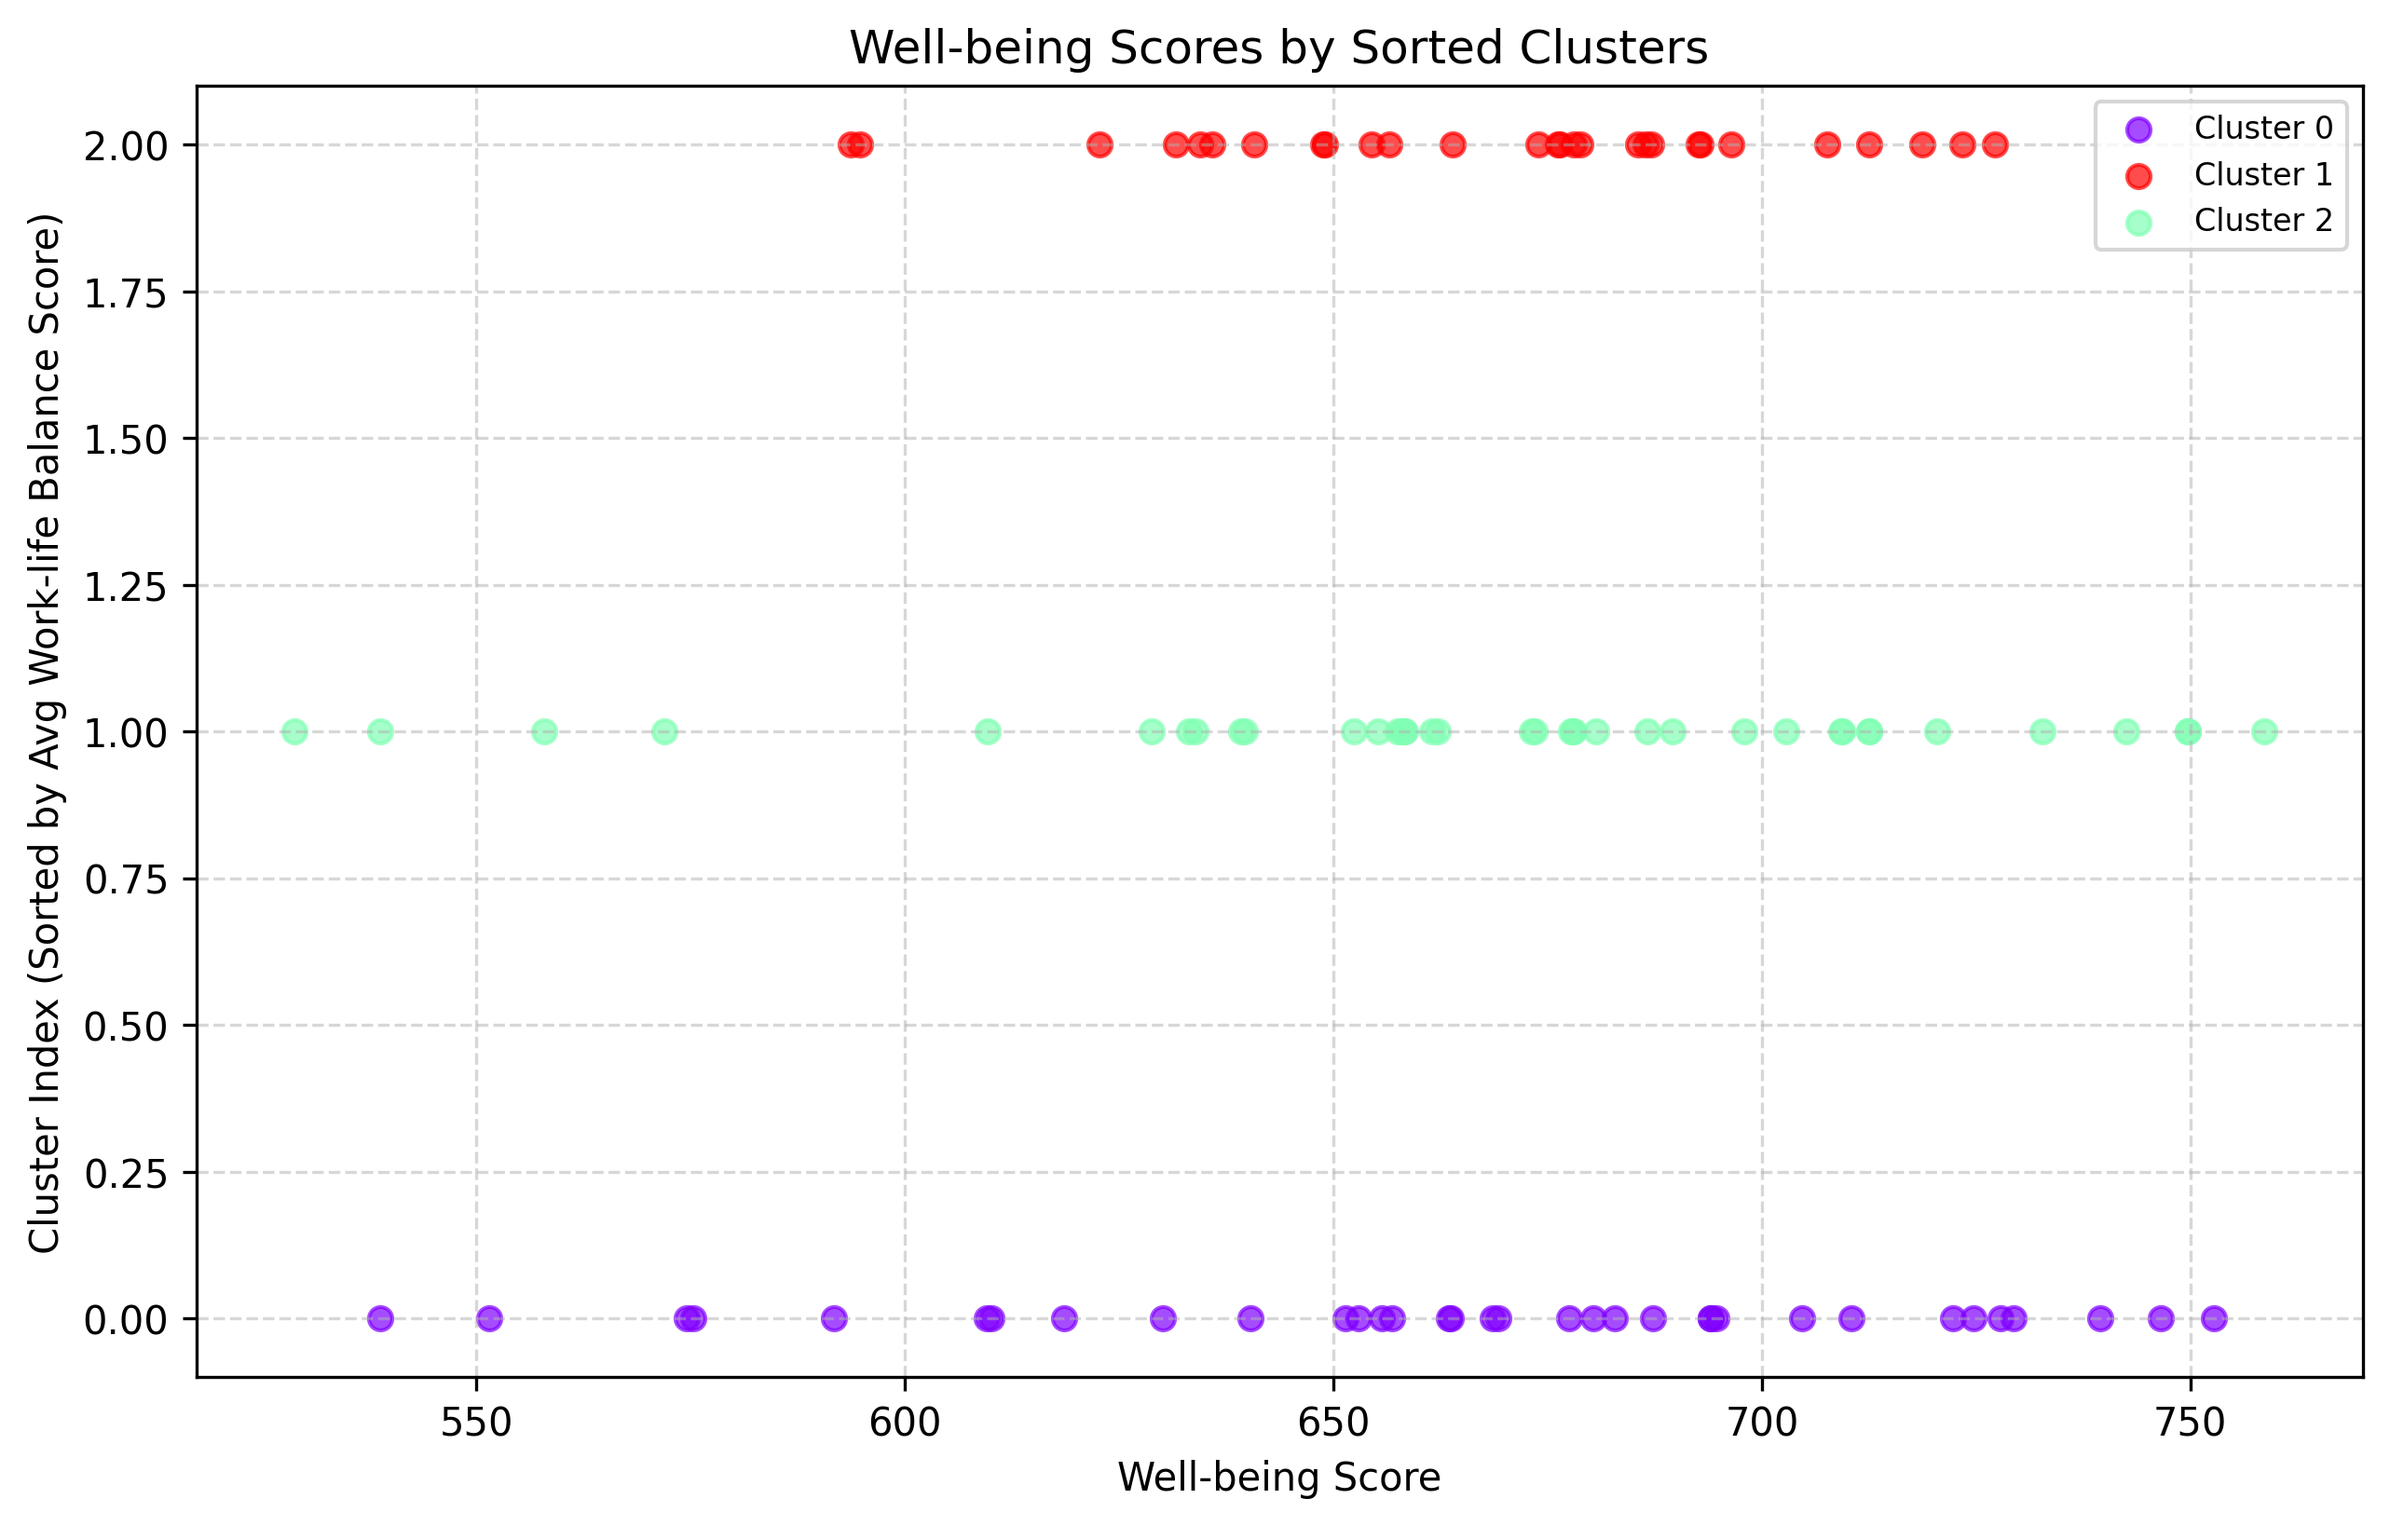
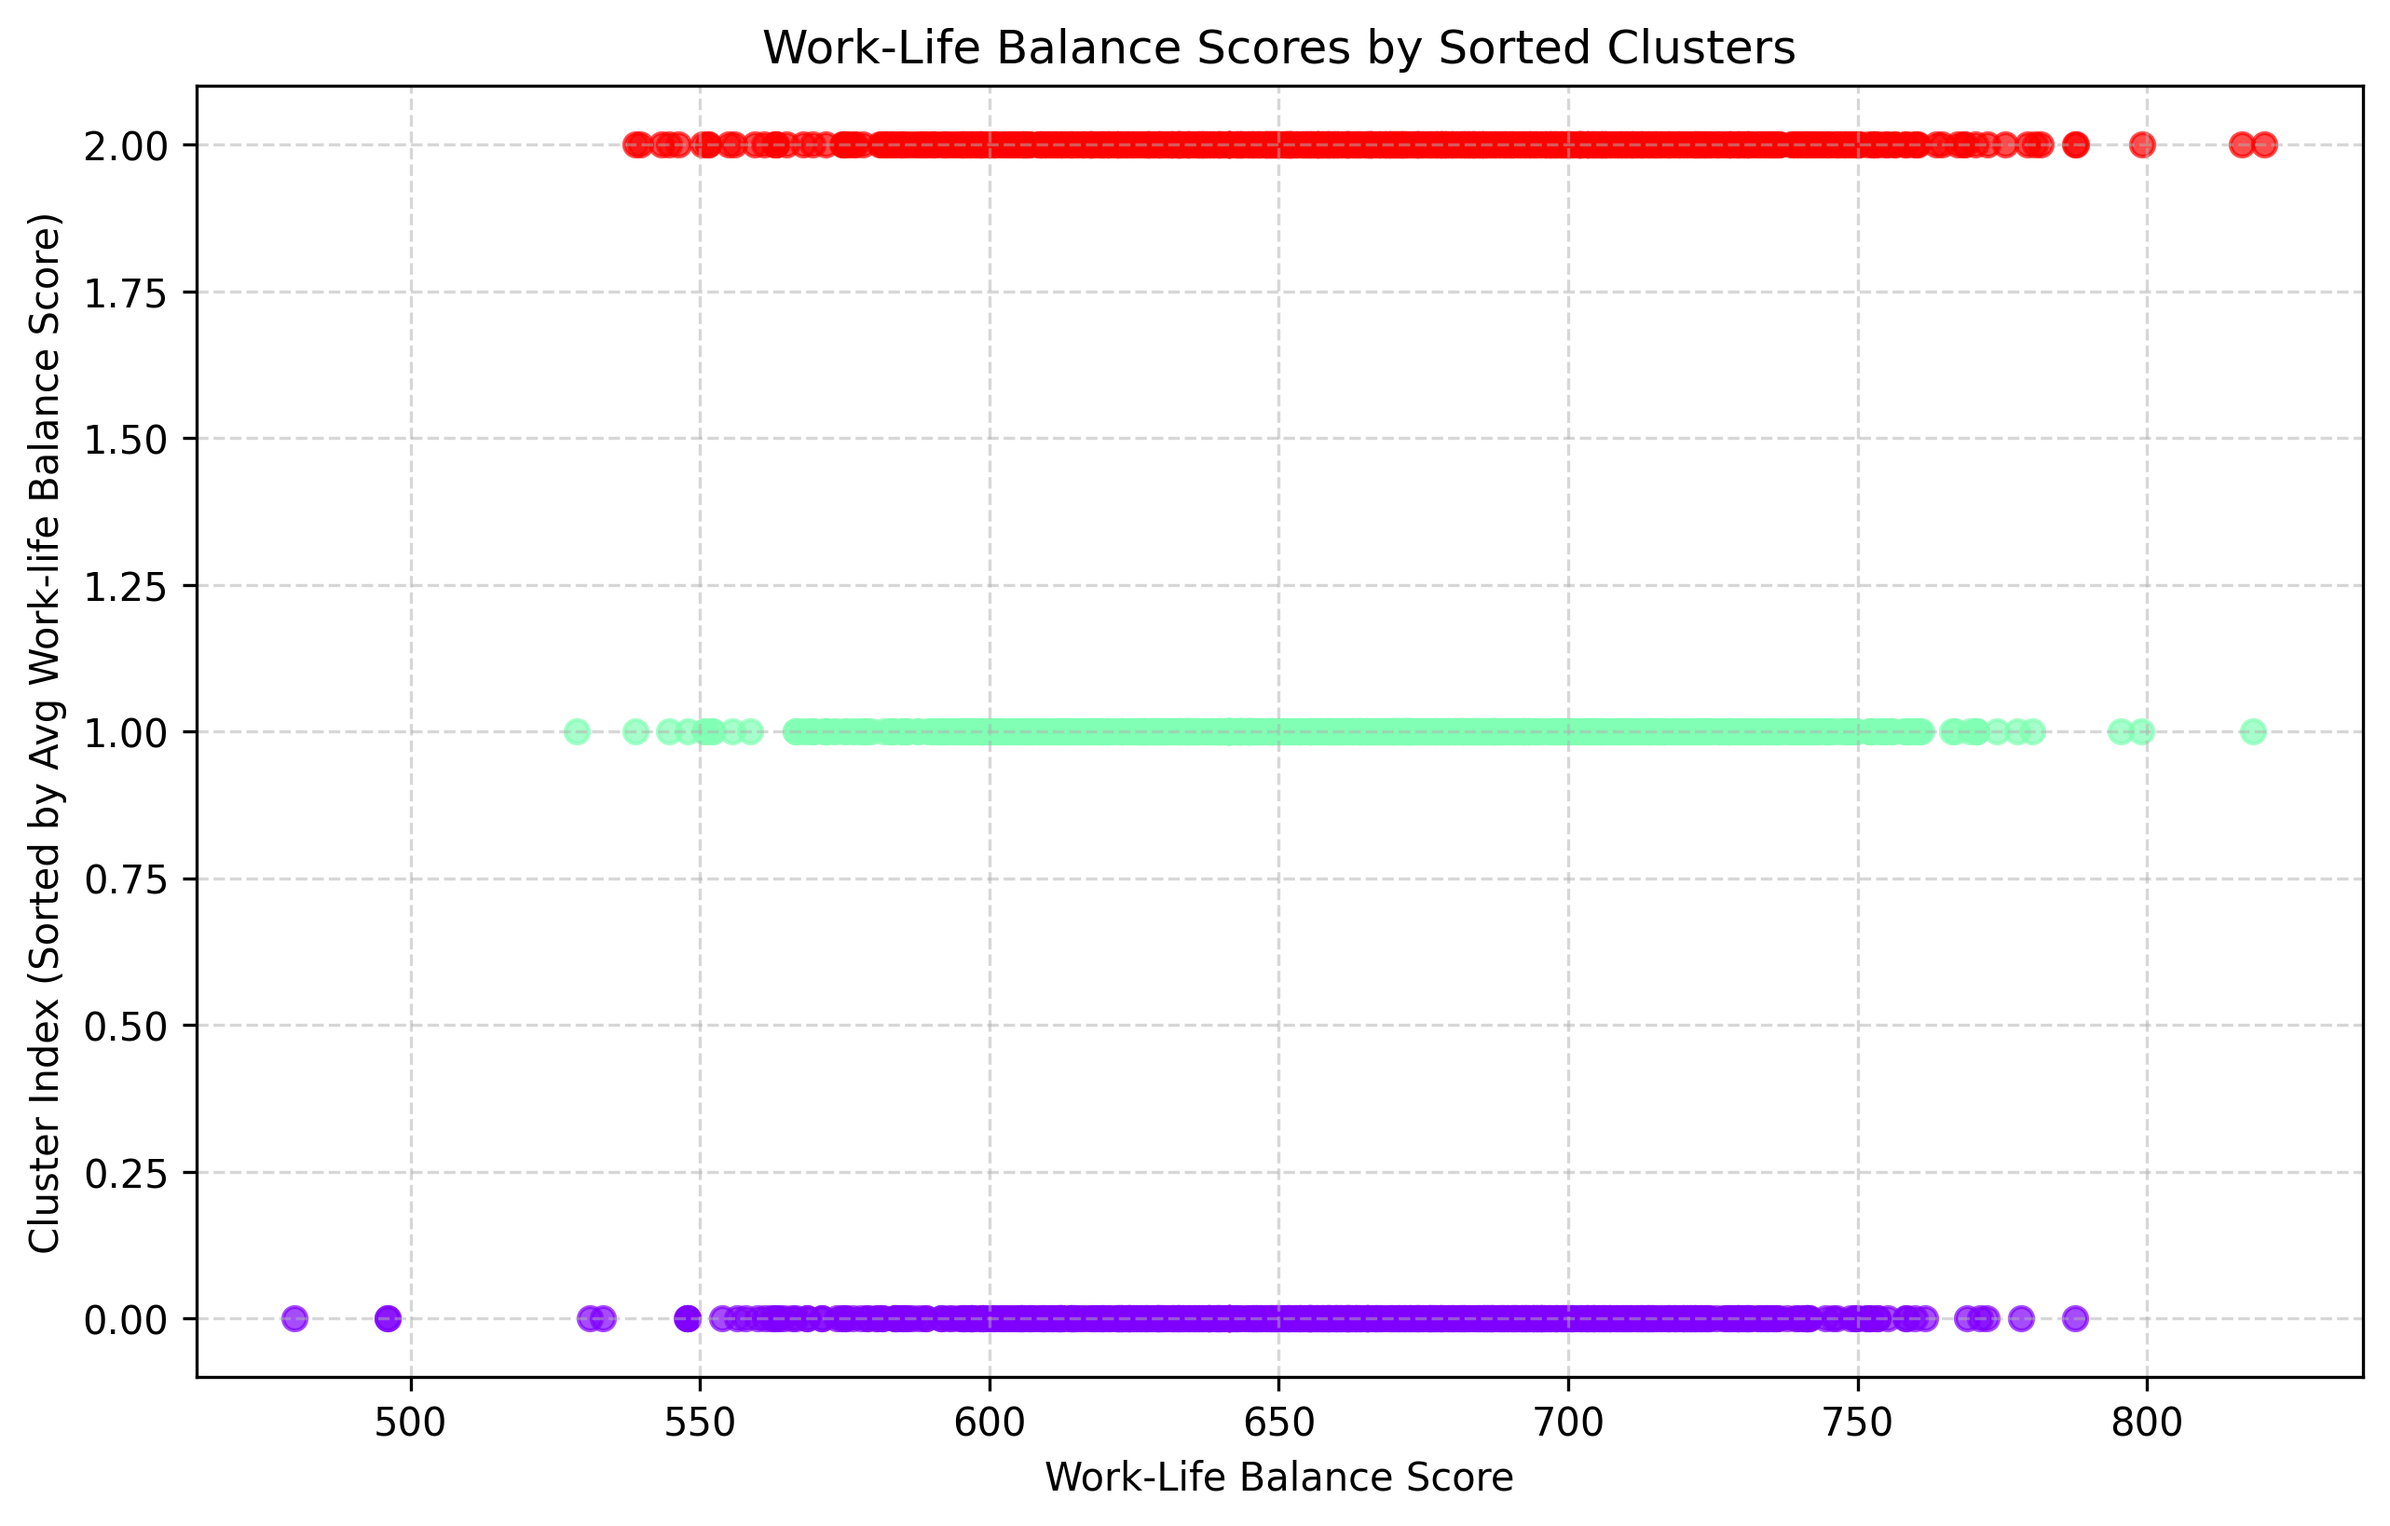
try full dataset and different thresholds and resolutions

diff --git a/utils.py b/utils.py
@@ -28,9 +28,9 @@ def get_similarity_graph(embeddings):
     return cosine_similarity(embeddings)
     
 
-def get_clusters(similarity_graph, threshold=0.5, method="louvain"):
+def get_clusters(similarity_graph, threshold=0.5, resolution=1.0, method="louvain"):
     if method == "louvain":
-        return louvain_method(similarity_graph, threshold)    
+        return louvain_method(similarity_graph, threshold, resolution)    
 
 
 # # Assuming that the similarity graph is a 2D matrix passed
@@ -70,7 +70,7 @@ def get_clusters(similarity_graph, threshold=0.5, method="louvain"):
 #     return clusters
 
 
-def louvain_method(similarity_graph, threshold):
+def louvain_method(similarity_graph, threshold, resolution):
     print('inside louvain_method')
     
     # Check that the similarity graph is a square matrix
@@ -91,7 +91,7 @@ def louvain_method(similarity_graph, threshold):
     graph.remove_edges_from(edges_to_remove)
 
     # Apply the Louvain method for community detection
-    best_partition = community_louvain.best_partition(graph, resolution=1.1)
+    best_partition = community_louvain.best_partition(graph, resolution=resolution)
 
     # Group nodes by their community
     clusters = {}
@@ -121,7 +121,7 @@ def calculate_cluster_averages(clusters, target_values):
 
 def plot_clusters_with_scores(similarity_graph, clusters, scores, filename="clusters_with_scores.png"):
     """
-    Plot clusters with well-being scores in a network graph.
+    Plot clusters with work-life balance scores in a network graph.
     
     Parameters:
     - similarity_graph: 2D array representing the similarity graph
@@ -153,7 +153,7 @@ def plot_clusters_with_scores(similarity_graph, clusters, scores, filename="clus
     
     # Add a legend
     plt.legend(scatterpoints=1, loc="upper right", markerscale=0.5, fontsize=8)
-    plt.title("Network Graph of Well-being Scores by Cluster")
+    plt.title("Network Graph of Work-Life Balance Scores by Cluster")
 
     # Save plot to file
     plt.savefig(filename, dpi=300, bbox_inches='tight')
@@ -164,7 +164,7 @@ def plot_clusters_with_scores(similarity_graph, clusters, scores, filename="clus
 def plot_clusters_vs_scores(clusters, scores, filename="clusters_vs_scores.png"):
     """
     Plot each point where the y-axis is the cluster index (sorted by average work-life balance score)
-    and the x-axis is the well-being score. Each cluster is represented with a different color.
+    and the x-axis is the work-life balance score. Each cluster is represented with a different color.
     
     Parameters:
     - clusters: dict where keys are cluster labels and values are lists of node indices
@@ -194,10 +194,10 @@ def plot_clusters_vs_scores(clusters, scores, filename="clusters_vs_scores.png")
                     color=cluster_color_map[cluster], label=f"Cluster {cluster}", alpha=0.7)
 
     # Add labels and legend
-    plt.xlabel("Well-being Score")
+    plt.xlabel("Work-Life Balance Score")
     plt.ylabel("Cluster Index (Sorted by Avg Work-life Balance Score)")
-    plt.title("Well-being Scores by Sorted Clusters")
-    plt.legend(loc="best", fontsize=8)
+    plt.title("Work-Life Balance Scores by Sorted Clusters")
+    # plt.legend(loc="best", fontsize=8)
     plt.grid(True, linestyle='--', alpha=0.5)
 
     # Save plot to file

diff --git a/main.py b/main.py
@@ -6,7 +6,7 @@ import utils
 
 # load data
 df = utils.load_data(partition="all")
-df = df[:500]
+# df = df[:500]
 features = df.drop('WORK_LIFE_BALANCE_SCORE', axis=1)
 target = df['WORK_LIFE_BALANCE_SCORE']
 
@@ -54,7 +54,7 @@ for i in range(len(y_test)):
 
 
 # clustering (Louvain, etc)
-clusters = utils.get_clusters(scaled_similarity_graph, threshold=0.7, method="louvain")
+clusters = utils.get_clusters(scaled_similarity_graph, threshold=0.5, method="louvain")
 
 # Calculate average work-life balance score per cluster
 cluster_averages = utils.calculate_cluster_averages(clusters, target)
